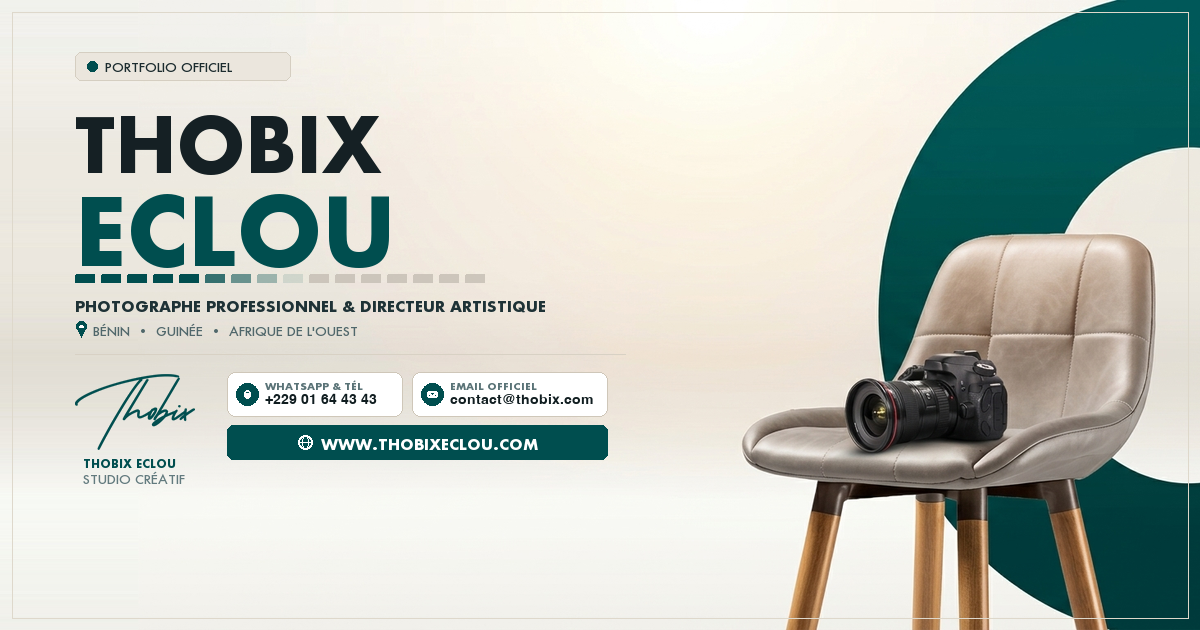
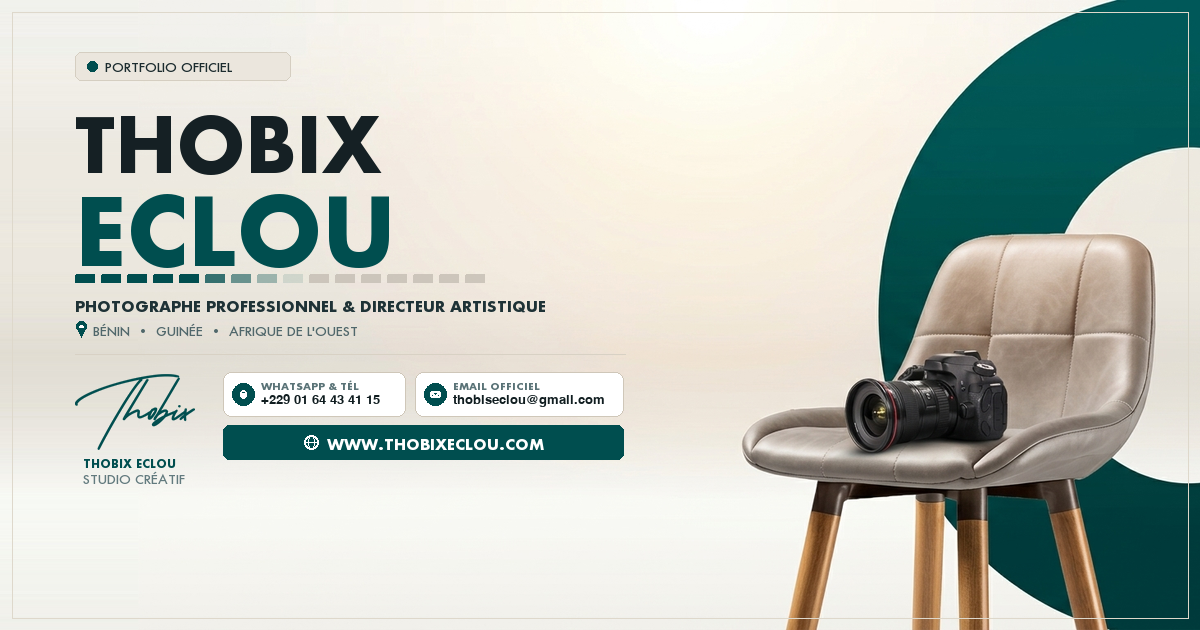
fix(contacts): mise à jour du numéro (+229 01 64 43 41 15) et email officiel (thobiseclou@gmail.com)
- Mise à jour du visuel de Link Preview avec le nouveau numéro et nouvel email
- Mise à jour de src/config/site.js, Footer, Header et schema.org
- Synchronisation SSG et régénération de dist/ et sitemap

Changed region(s): [[0.185, 0.573, 0.5242, 0.7238], [0.2467, 0.6937, 0.4625, 0.7238], [0.185, 0.6937, 0.2158, 0.7238]]

diff --git a/src/components/Footer.jsx b/src/components/Footer.jsx
@@ -87,10 +87,10 @@ export default function Footer({ onOpenBooking, onNavigate }) {
             <div className="footer-links-col">
               <h4 className="col-heading">CONTACT</h4>
               <ul>
-                <li><a href="mailto:contact@thobix.com">contact@thobix.com</a></li>
-                <li><a href="tel:+22901644343">+229 01 64 43 43</a></li>
+                <li><a href="mailto:thobiseclou@gmail.com">thobiseclou@gmail.com</a></li>
+                <li><a href="tel:+2290164434115">+229 01 64 43 41 15</a></li>
                 <li>
-                  <a href="https://wa.me/22901644343" target="_blank" rel="noopener noreferrer">
+                  <a href="https://wa.me/2290164434115" target="_blank" rel="noopener noreferrer">
                     WhatsApp (+229) ↗
                   </a>
                 </li>
@@ -115,7 +115,7 @@ export default function Footer({ onOpenBooking, onNavigate }) {
                   </a>
                 </li>
                 <li>
-                  <a href="https://wa.me/22901644343" target="_blank" rel="noopener noreferrer">
+                  <a href="https://wa.me/2290164434115" target="_blank" rel="noopener noreferrer">
                     WhatsApp Direct ↗
                   </a>
                 </li>

diff --git a/scripts/generate-seo.js b/scripts/generate-seo.js
@@ -187,7 +187,7 @@ function generateLandingPages() {
         "name": "Thobix Eclou — Photographe Bénin & Cotonou",
         "url": `${SITE_URL}/photographe-benin`,
         "image": `${SITE_URL}/og-image.jpg`,
-        "telephone": "+22901644343",
+        "telephone": "+2290164434115",
         "priceRange": "450.000 FCFA - 1.200.000 FCFA",
         "areaServed": [
           { "@type": "City", "name": "Cotonou" },
@@ -219,7 +219,7 @@ function generateLandingPages() {
         "name": "Thobix Eclou — Photographe Guinée & Conakry",
         "url": `${SITE_URL}/photographe-guinee`,
         "image": `${SITE_URL}/og-image.jpg`,
-        "telephone": "+22901644343",
+        "telephone": "+2290164434115",
         "priceRange": "450.000 FCFA - 1.200.000 FCFA",
         "areaServed": [
           { "@type": "City", "name": "Conakry" },

diff --git a/src/components/Header.jsx b/src/components/Header.jsx
@@ -361,7 +361,7 @@ export default function Header({
               <div className="mobile-social-pills">
                 <a href="https://www.instagram.com/mister_thobix" target="_blank" rel="noopener noreferrer">@mister_thobix</a>
                 <span className="dot">•</span>
-                <a href="https://wa.me/22901644343" target="_blank" rel="noopener noreferrer">WhatsApp (+229)</a>
+                <a href="https://wa.me/2290164434115" target="_blank" rel="noopener noreferrer">WhatsApp (+229)</a>
                 <span className="dot">•</span>
                 <a href="https://www.facebook.com/thobix.eclou" target="_blank" rel="noopener noreferrer">Facebook</a>
               </div>

diff --git a/src/config/site.js b/src/config/site.js
@@ -22,9 +22,9 @@ export const SITE_CONFIG = {
   socials: {
     instagram: "https://www.instagram.com/mister_thobix",
     facebook: "https://www.facebook.com/thobix.eclou",
-    whatsapp: "https://wa.me/22901644343",
-    email: "contact@thobix.com",
-    phone: "+22901644343"
+    whatsapp: "https://wa.me/2290164434115",
+    email: "thobiseclou@gmail.com",
+    phone: "+2290164434115"
   },
   categories: [
     {

diff --git a/index.html b/index.html
@@ -66,7 +66,7 @@
         "sameAs": [
           "https://www.instagram.com/mister_thobix",
           "https://www.facebook.com/thobix.eclou",
-          "https://wa.me/22901644343"
+          "https://wa.me/2290164434115"
         ],
         "knowsAbout": [
           "Photographie professionnelle",

diff --git a/scripts/generate-og-image.py b/scripts/generate-og-image.py
@@ -83,7 +83,7 @@ def create_og_image():
         font_subtitle = ImageFont.truetype(futura_ttc, 15, index=2) # Bold
         font_geo = ImageFont.truetype(futura_ttc, 13, index=0)     # Medium
         font_badge_lbl = ImageFont.truetype(futura_ttc, 10, index=2) # Bold
-        font_badge_val = ImageFont.truetype(helvetica_ttc, 14, index=1) # Bold
+        font_badge_val = ImageFont.truetype(helvetica_ttc, 13, index=1) # Bold
         font_url = ImageFont.truetype(futura_ttc, 15, index=2)     # Bold
         font_brand = ImageFont.truetype(futura_ttc, 11, index=2)   # Bold
     except Exception as e:
@@ -174,26 +174,26 @@ def create_og_image():
         draw.text((lx + 8, bot_y + target_sh + 22), "STUDIO CRÉATIF", font=font_eyebrow, fill="#627a7e")
         
     # 2. Contact Cards on the right of the signature
-    cx = lx + 152
+    cx = lx + 148
     
     # Card 1: WhatsApp & Tél
-    card1_w = 175
+    card1_w = 182
     card_h = 44
     draw.rounded_rectangle([cx, bot_y, cx + card1_w, bot_y + card_h], radius=8, fill="#ffffff", outline="#cfc7b9", width=1)
     # Circle icon badge
     draw.ellipse([cx + 9, bot_y + 11, cx + 31, bot_y + 33], fill="#004e4f")
     draw_phone_icon(draw, cx + 20, bot_y + 22, 6, "#ffffff")
     draw.text((cx + 38, bot_y + 7), "WHATSAPP & TÉL", font=font_badge_lbl, fill="#5a7377")
-    draw.text((cx + 38, bot_y + 21), "+229 01 64 43 43", font=font_badge_val, fill="#101d20")
+    draw.text((cx + 38, bot_y + 21), "+229 01 64 43 41 15", font=font_badge_val, fill="#101d20")
     
     # Card 2: Email Officiel
     cx2 = cx + card1_w + 10
-    card2_w = 195
+    card2_w = 208
     draw.rounded_rectangle([cx2, bot_y, cx2 + card2_w, bot_y + card_h], radius=8, fill="#ffffff", outline="#cfc7b9", width=1)
     draw.ellipse([cx2 + 9, bot_y + 11, cx2 + 31, bot_y + 33], fill="#004e4f")
     draw_mail_icon(draw, cx2 + 20, bot_y + 22, 7, "#ffffff")
     draw.text((cx2 + 38, bot_y + 7), "EMAIL OFFICIEL", font=font_badge_lbl, fill="#5a7377")
-    draw.text((cx2 + 38, bot_y + 21), "contact@thobix.com", font=font_badge_val, fill="#101d20")
+    draw.text((cx2 + 38, bot_y + 21), "thobiseclou@gmail.com", font=font_badge_val, fill="#101d20")
     
     # Card 3: Full Website Banner Pill (Centered, high luxury)
     web_y = bot_y + card_h + 9
